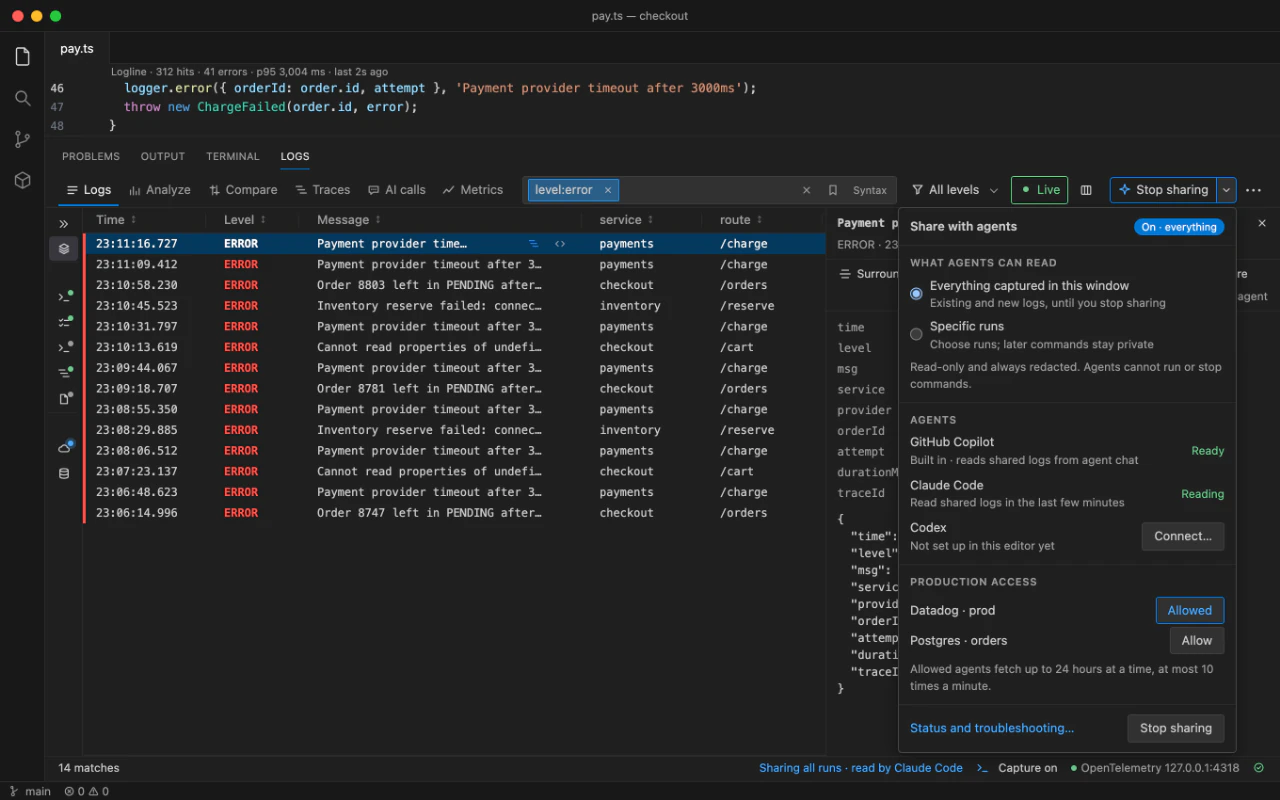
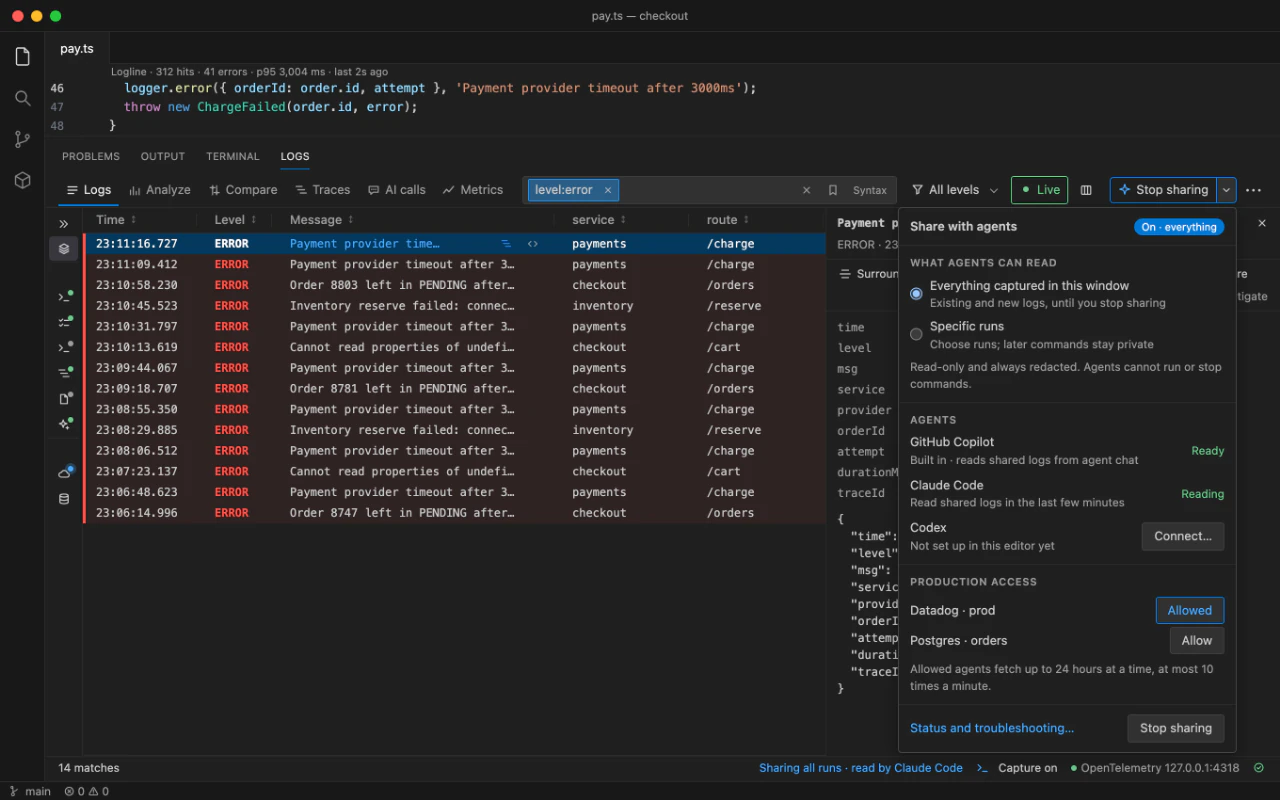
Bring the README, docs, and screenshots up to date for the release
- README: Copilot agent sessions, runtime errors in the editor, Insert Log,
  Investigate, failed CI tests marked in the editor, Claude Code usage.
- Regenerate the README images from the current panel; the fixtures now
  mark error events as the host does, so Investigate shows enabled, and
  include an agent session source.
- PRIVACY: what agent sessions, Claude Code usage, and GitHub Actions read
  or send, and the Investigate usage events.
- ARCHITECTURE: the GitHub Actions connector, agent session capture,
  runtime errors, Insert Log, and Investigate.
- Walkthrough and extension description mention CI and Investigate.

Changed region(s): [[0.1562, 0.25, 0.5312, 0.6562], [0.5312, 0.25, 0.5938, 0.6562], [0.0312, 0.5312, 0.0625, 0.5938]]

diff --git a/ARCHITECTURE.md b/ARCHITECTURE.md
@@ -42,6 +42,8 @@ Plain-text capture paths frame lines through `LinePipeline` (`capture/line-pipel
 
 `RemoteSource` (`capture/remote-source.ts`) fetches rows from saved connections into runs. A fetch is a run (`sourceKind: 'remote'`, source `conn:<id>`) of the newest rows in a time range that can match the search, ingested oldest first in chunks of 500 and never persisted; a tail reads rows at or after the newest time it has seen, skipping lines it already ingested at that time, and keeps polling after a failed read. A connector's `firstPage` callback hands over a small first page while the rest are read; it is shown at once, and the run is filled again oldest first when the whole result arrives, or emptied if the fetch fails. A newer search of a connection cancels one still running and drops its rows (`cancelFetches`). Each run reports the store's time, Logline's time, and when its first rows appeared. `core/remote-query.ts` turns a search into parameterized SQL for a mapped table: terms SQL can express narrow the select, an `OR` branch it cannot narrow drops the narrowing, and the rest are reported as local. Every fetched row is then checked against the whole search (less `changed:`) through the `accept` callback of `Ingestion.accept`, so SQL may fetch more rows than match, never fewer. Regular expression terms are recognized by their text and not compiled there. `SqlConnector` (`capture/connectors/sql.ts`) runs these through a `SqlDriver`. SQLite runs in a child process of the editor's runtime (`node:sqlite`, opened read-only), killed at the timeout, because a worker thread cannot be stopped while SQLite runs a query and would keep the editor from exiting; runtimes without `node:sqlite` use the `sqlite3` command, with parameters bound through its parameter table. Postgres uses pg, bundled with its licenses into `out/vendor/pg.js` and loaded on first use, with each query in a read-only transaction and a statement timeout. `DatadogConnector` (`capture/connectors/datadog.ts`) searches with the Logs Search API through `fetch`, in pages of up to 5,000 after a first page of 200, limited by `logline.datadogMaxRows` (`RemoteTarget.maxRowsSetting`), and counts the total only when more logs follow the first page. `core/datadog-query.ts` translates a search with Datadog's matching rather than as a superset: values match whole unless they have a `*`, free text is a word of the message, and a field without `@` is a tag or an attribute. The local filter stays a superset of that, since `*` is a wildcard in `core/query.ts` too and `getField` finds a missing field among an event's `tags`. A query typed in Datadog syntax, or from a Log Explorer link, is sent untranslated (`FetchRequest.native`) and not filtered again. Its `tailLagMs` is the most a tail reads back; `RemoteSource` shortens that to twice the lateness the last reads saw, at least 15 s, and goes back the whole lag every tenth read. Its `tailPollMs` follows the `x-ratelimit-*` headers of each search, and `services()` lists the services that logged in a range through the aggregate API. Keys are stored as JSON under the API's address, so a workspace that points a connection at another host never receives them; plain http is accepted only on loopback, which `src/test/fake-datadog.ts` uses in tests. `ConnectionManager` (`vscode/connections.ts`) reads `logline.connections`, keeps passwords in secret storage keyed by user, host, port, and database, and closes connectors when their settings change. It adds and edits connections through the Connection form, a tab of the Logs panel in three parts. `core/connection-form.ts` holds the draft, its checks, and the messages between form and host; both sides check a draft with the same `readDraft`, so the form says what is missing as the person types and the host never trusts it. `ConnectionSession` (`vscode/connection-session.ts`) owns the one open form: it numbers each form so answers meant for an earlier one are dropped, keeps the connector opened by the last good test to list tables and read five sample rows, and saves only a draft whose connection and secret match that test. A saved secret is offered to an edit only while the draft's secret key matches the saved connection's, so it never goes to another server or site. An edit replaces the connection in the settings it came from and keeps its id. The webview side is `webview/connection-tab.ts`, which shows the tab while a form is open and lists connections in its rail, and `webview/connection-form/form.ts`, which renders the form from text nodes only, since sample rows are database content.
 
+`GitHubActionsConnector` (`capture/connectors/github-actions.ts`) reads the failed jobs of the newest 10 failed runs of a branch, with a token from VS Code's GitHub sign-in (`vscode/github-auth.ts`) that Logline never stores. A connection's `endpoint` may only name a loopback address, for tests, since requests carry the github.com account's token. `core/ci-log.ts` turns a job's log into lines with their step and an event per failed test (`kind:test-failure`) from the output of common test runners; a finished job's log and an attempt's failed jobs are cached, as they never change.
+
 Connectors that hold metrics implement `queryMetrics` and `listMetrics`: Datadog through `/api/v1/query` and `/api/v1/metrics`, a database through a checked `SELECT`, its rows grouped into series by `core/metric-query.ts`, which also bounds what a chart receives to 20 series of 300 points. The Metrics tab's chart (`webview/inspection/metric-query.ts`) is inline SVG; a window dragged across it is sent back as `connectionFetch` with `fromMs` and `toMs`. `RemoteMetrics` (`capture/remote-metrics.ts`) polls watched queries every 15 seconds over the last ten minutes into `MetricStore` as gauges, which keeps only points newer than a series' last.
 
 Agents reach connections through `AgentLogAccess.production`, which the controller attaches: `fetchProduction` checks the share, the connection's agent permission (kept by `ConnectionManager` in `globalState` under the connection's identity, so workspace settings cannot grant it), a range of at most a day, and 10 fetches a minute per connection, then adds the fetched run to a share of selected runs and returns error groups, redacted. `compareWithProduction` builds a comparison without pinning it. The MCP server marks `logline_fetch_production` as reaching outside the editor (`openWorldHint`).
@@ -68,9 +70,13 @@ Full file exports keep a fixed array of matching event references, then redact/s
 
 `Configuration` normalizes settings before returning them, caches normalized values, and clears its cache on refresh. Numeric ranges and integer counts are checked at this boundary. Auto-start uses the same validated configuration. Server management preserves unrelated malformed entries while editing/deleting the selected array entry.
 
+`AgentSessionCapture` (`capture/agent-sessions.ts`) reads the transcripts Claude Code (`~/.claude/projects`), Codex (`~/.codex/sessions`), and Copilot (`~/.copilot/session-state` and the workspace's Copilot Chat storage) keep on this machine, with `capture/jsonl-tail.ts` reading only what was appended. `core/agent-session.ts` and `core/copilot-chat.ts` turn each line into prompt, tool-call, and reply events (`sourceKind: 'agent'`), one source per agent and one run per session. A session filed outside this folder's own files shows nothing until it names a working folder inside an open one, so another project's activity is never shown or shared. While `agentSessions.enabled` is off, it only reads the start of such files every few minutes to count the sessions the rail can offer.
+
+Code-facing features keep their logic in `core` and their editor wiring in `vscode`. `core/runtime-errors.ts` keys each captured error by its message and top app frames, and `vscode/runtime-errors.ts` resolves a frame to a file inside a workspace folder, or the one file whose path ends the same way, and marks its line. `core/log-insert.ts` plans a log line in the logging style the file already uses, escaping the label for each language's string literal, and `vscode/log-insert.ts` applies and removes the marked lines. `core/investigation.ts` writes the prompt Investigate hands an agent, with log text quoted and cut short as untrusted data, and watches the runs that follow; `vscode/investigate.ts` shares the error's source first, then opens Copilot's chat or starts Claude Code or Codex in a terminal with `promptCommand`, whose `shellQuote` quotes for POSIX shells, PowerShell, and Command Prompt.
+
 Task identities combine folder URI, task type, and exact name through a stable hash. Explicit IDs remain authoritative. Session records retain folder scope and task labels for dependency resolution; the latest matching run in the same scope determines readiness. This metadata is separate from the event payload.
 
-Prompts and indicators outside the panel each have a module of their own. `CaptureStatus` (`vscode/capture-status.ts`) reads the store's counts on a timer for the status bar item and the errors notification, never from the capture path. The AI usage item works the same way: `core/codex-usage.ts` holds the pure parsing, tally, status text, and hover; `capture/codex-usage-reader.ts` reads only the bytes appended to Codex's session files and lists their folders once a minute; and `vscode/ai-usage-status.ts` is the item, polling every 5 seconds off the capture path. Its pie glyphs come from `media/logline-icons.woff`, built by `scripts/build-icons.mjs` (`npm run build:icons`). `CaptureOffer` (`vscode/capture-offer.ts`) offers terminal capture when a dev server starts, `vscode/agent-onboarding.ts` detects the agent in the editor and offers **Set Up for My Agent**, and `vscode/rating-prompt.ts` and `vscode/update-check.ts` ask for a rating and look for an update; each keeps how it was answered in `Memento` state so it does not ask again. `vscode/about.ts` builds what **About Logline** shows and copies. `ViewNotifications` (`vscode/view-notifications.ts`) coalesces ingestion bursts into one `update` message per interval for every open view.
+Prompts and indicators outside the panel each have a module of their own. `CaptureStatus` (`vscode/capture-status.ts`) reads the store's counts on a timer for the status bar item and the errors notification, never from the capture path. The AI usage item works the same way: `core/codex-usage.ts` and `core/claude-usage.ts` hold the pure parsing, tally, status text, and hover; `capture/codex-usage-reader.ts` and `capture/claude-usage-reader.ts` read only the bytes appended to the agents' session files and list their folders once a minute; and `vscode/ai-usage-status.ts` is the item, polling every 5 seconds off the capture path. Its pie glyphs come from `media/logline-icons.woff`, built by `scripts/build-icons.mjs` (`npm run build:icons`). `CaptureOffer` (`vscode/capture-offer.ts`) offers terminal capture when a dev server starts, `vscode/agent-onboarding.ts` detects the agent in the editor and offers **Set Up for My Agent**, and `vscode/rating-prompt.ts` and `vscode/update-check.ts` ask for a rating and look for an update; each keeps how it was answered in `Memento` state so it does not ask again. `vscode/about.ts` builds what **About Logline** shows and copies. `ViewNotifications` (`vscode/view-notifications.ts`) coalesces ingestion bursts into one `update` message per interval for every open view.
 
 ## Viewer and protocol
 

diff --git a/PRIVACY.md b/PRIVACY.md
@@ -15,11 +15,11 @@ Every event carries:
 
 Events cover:
 
-- **Use**: the day you first use Logline each day, the commands you run, the kinds of capture you start, when the Logs panel opens, the views you open, which panel actions you use by name (such as opening an event, exporting, or saving a search, never what they acted on), how wide the panel is in a range, which option you chose in the welcome, whether you finished or skipped the panel tour, whether you opened Logline from the status bar, a file's menu, a terminal's menu, or the empty panel, and the first time you reach a few steps such as your first search or first share.
+- **Use**: the day you first use Logline each day, the commands you run, the kinds of capture you start, when the Logs panel opens, the views you open, which panel actions you use by name (such as opening an event, exporting, or saving a search, never what they acted on), how wide the panel is in a range, which option you chose in the welcome, whether you finished or skipped the panel tour, whether you opened Logline from the status bar, a file's menu, a terminal's menu, the empty panel, the Sources rail's offer of agent sessions, or the **Add logs** menu, and the first time you reach a few steps such as your first search or first share.
 - **Searches**: which operators a search used (fields, `-`, regex, time ranges, comparisons, `*`, `changed:`, `OR`), which of Logline's own fields it filtered on, such as `level` or `service`, and how many events it found, in ranges. Never what you searched for, and never your own field names.
 - **Connections**: the type (Datadog, Postgres, and so on), how it signs in, and whether a search, tail, query, or test worked, with its time and row count in ranges.
 - **Log doctor**: which kinds of problem it found, such as a secret or a noisy statement, once a session; the actions you take on them; and a thumbs up or down you give a kind of finding. Never the statement, file, or value.
-- **Agents**: when you share logs, how (all, chosen runs, one event, or from the window's start after the one-step setup) and how much in ranges; how connecting an agent went; whether the one-step setup was offered, accepted, finished, or stopped at sharing or connecting, and for which kind of agent; whether you stopped sharing or the window closed; whether an agent that started Logline's server found the window, or why not (it runs in a folder no window has open, or its editor did not say the folder); which kind of agent called (Claude Code, Codex, Cursor, Copilot, or other); which tool it called, whether it worked, how long it took, and how many values were redacted from its result, in a range.
+- **Agents**: when you share logs, how (all, chosen runs, one event, or from the window's start after the one-step setup) and how much in ranges; how connecting an agent went; whether the one-step setup was offered, accepted, finished, or stopped at sharing or connecting, and for which kind of agent; whether you stopped sharing or the window closed; whether an agent that started Logline's server found the window, or why not (it runs in a folder no window has open, or its editor did not say the folder); which kind of agent called (Claude Code, Codex, Cursor, Copilot, or other); which tool it called, whether it worked, how long it took, and how many values were redacted from its result, in a range; and, for **Investigate**, which kind of agent an error was handed to (Copilot, Claude Code, Codex, or a copied prompt) and whether the error then stopped or happened again. Never the error or the prompt.
 - **Settings**: which Logline setting changed, and its new value only when it is on or off, a number in a range, or one of the setting's own choices.
 - **Was it helpful**: a few minutes after **Ask Copilot** opens an investigation, Logline may ask whether it helped, at most once a week and three times in all, and sends Yes or No. Never the chat.
 - **Performance and errors**: how long activation, the first logs in the panel, searches, and imports took, and how many events an import brought, in ranges; and failures by area and a code Logline names, never their message.
@@ -29,7 +29,15 @@ Events cover:
 
 ## AI usage in the status bar
 
-When you turn on **Show Codex Usage**, Logline reads the session files Codex keeps under `~/.codex` to show its plan limits and today's tokens in the status bar. This is read on your machine only. Nothing read is sent, and no token or limit figure is added to usage data.
+When you turn on **Show Codex Usage**, Logline reads the session files Codex keeps under `~/.codex` to show its plan limits and today's tokens in the status bar. **Show Claude Code Usage** reads the session files Claude Code keeps under `~/.claude` for today's tokens. This is read on your machine only. Nothing read is sent, and no token or limit figure is added to usage data.
+
+## Agent sessions
+
+When you turn on `logline.agentSessions.enabled`, Logline reads the transcripts Claude Code, Codex, and GitHub Copilot keep on your machine (under `~/.claude`, `~/.codex`, `~/.copilot`, and VS Code's storage for Copilot Chat) for sessions that worked in an open folder, and shows them as logs. While it is off, Logline reads only the start of a session file, to find which folder it worked in and offer to show it. What is read stays on your machine like any other log: it is shared with an agent only when you share, redacted, and none of it is added to usage data.
+
+## GitHub Actions connections
+
+A GitHub Actions connection signs in with the GitHub account VS Code is signed in to. Logline asks VS Code for the token when a search runs, sends it only to GitHub's API, and never stores it. The repository and branch you enter are saved in the workspace settings, and are not added to usage data.
 
 ## What is never sent
 

diff --git a/README.md b/README.md
@@ -24,8 +24,10 @@ Run your app the way you already do: in a terminal, with F5, as a task, in Docke
 - **The browser too**: open your app from Logline, and its console, uncaught errors, and network requests land in the same timeline as the server's logs.
 - **Search like you think**: `level:error service:api`, `status:5xx`, `durationMs:>200`, `last:15m`, or `changed:true` for logs from code you changed since the last commit.
 - **Read any format**: JSON, logfmt, plain text, Pino, Winston, Log4j2, and ECS, with stack traces kept together.
-- **Agent sessions too**: what Claude Code and Codex did in your workspace, each prompt, tool call, and reply, shows beside your app's logs.
+- **Agent sessions too**: what Claude Code, Codex, and GitHub Copilot did in your workspace, each prompt, tool call, and reply, shows beside your app's logs, so a failed tool call sits next to the error it caused.
 - **Back to the code**: every log statement shows live hit counts, errors, and p95 durations above it, and **Break here** stops the debugger the next time it logs.
+- **Errors on the line that threw them**: the line of your code that raised a captured error is marked with the error, how often it happened, and how long ago, inline and in Problems, with a quick fix to see its logs or break there.
+- **Insert Log** (Ctrl+Alt+L, Cmd+Alt+L on macOS) adds a log line for the expression at the cursor in the style the file already logs with, and its CodeLens shows the latest value it logged. One command removes every inserted line.
 
 ## Find the problem
 
@@ -40,7 +42,7 @@ Run your app the way you already do: in a terminal, with F5, as a task, in Docke
 
 ![Compare: production errors from Datadog lined up with local runs, marked Reproduced, Fixed locally, Not seen locally, or New, with both sides of one error shown](media/readme/compare.webp)
 
-- **Connections** search and tail Datadog, CloudWatch, Grafana Loki, Elasticsearch and OpenSearch, Google Cloud Logging, the failed jobs of a GitHub Actions repository (each failed test is an event of its own), Postgres, MySQL and Aurora (with AWS IAM sign-in), MongoDB, and SQLite logs, read-only, beside your local runs. Add one in a form that tests it and previews its log table first; **Edit** changes it later.
+- **Connections** search and tail Datadog, CloudWatch, Grafana Loki, Elasticsearch and OpenSearch, Google Cloud Logging, the failed jobs of a GitHub Actions repository (each failed test is an event of its own, marked on its line in the editor), Postgres, MySQL and Aurora (with AWS IAM sign-in), MongoDB, and SQLite logs, read-only, beside your local runs. Add one in a form that tests it and previews its log table first; **Edit** changes it later.
 - **Compare** lines production errors up with your newest local runs: is it reproduced, and is your fix working? Errors from code you changed are tagged.
 - **Metrics** chart a connection's queries; drag across a spike to fetch the logs from that window.
 
@@ -49,6 +51,8 @@ Run your app the way you already do: in a terminal, with F5, as a task, in Docke
 ![The Share panel: everything captured is shared, Copilot is ready, and Claude Code is reading](media/readme/share.webp)
 
 **Logline: Set Up for My Agent** turns on capture, shares, and connects the agent in your editor in one step. **Share with agent** gives Copilot, Claude Code, Codex, or the agent in Cursor, Windsurf, or Kiro read-only access to what you choose: everything, or specific runs. Logs are always redacted, agents can't run anything, and **Stop sharing** cuts them off at once. Allow an agent to fetch from a connection, and it can pull production logs and compare them with your run, then verify its own fix.
+
+**Investigate** hands one error to Copilot, Claude Code, or Codex, from an error group in Analyze, an open error, or the error's mark in the editor. The agent gets the event to start from and the search for its other occurrences, and is asked to find the cause, fix it, and confirm with fresh logs. Logline then watches the error's source and says **Fixed locally** or **Still failing**.
 
 ## Get started
 
@@ -66,7 +70,7 @@ New to it? Logline offers a one-minute tour the first time, which **More actions
 | **Search tools** | Field and value autocomplete, include or exclude a value from any cell, saved searches, and surrounding logs from the same run. |
 | **Export** | JSONL, JSON, CSV, or Markdown for AI tools, redacted by default. |
 | **Retention** | Keeps the newest logs within a memory budget you set, optionally written to disk. |
-| **Outside the panel** | A status bar item counts captured logs and errors, the Logline icon on the right opens the Logs panel and can show how much of Codex's plan limit is used, a notification says when a run logs errors while the panel is hidden, and **Open in Logline** shows a `.log` or `.jsonl` file. |
+| **Outside the panel** | A status bar item counts captured logs and errors, the Logline icon on the right opens the Logs panel and can show how much of Codex's plan limit is used and Claude Code's tokens of today, a notification says when a run logs errors while the panel is hidden, and **Open in Logline** shows a `.log` or `.jsonl` file. |
 | **Troubleshooting** | The check mark in the Logs panel's status bar opens a Status panel for capture, the OpenTelemetry receiver, agents, log issues, and memory, and **Logline: Show Status** shows what is on, off, or broken, with the fix. |
 | **Feedback** | **More actions → Send feedback…** suggests a feature or votes on what to build next. |
 

diff --git a/docs/usage.md b/docs/usage.md
@@ -129,7 +129,7 @@ Afterwards Logline watches the error's source. It says **Still failing**, with *
 
 Claude Code, Codex, and GitHub Copilot keep a transcript of each session on your machine. With `logline.agentSessions.enabled` on, Logline reads them and shows what the agents did beside your app's logs. It is off by default: **Logline: Show Agent Sessions**, or the **Agent sessions** link in the AI usage hover, asks first, turns it on, and opens the Logs panel. While it is off, an agent that worked in an open folder in the last day is offered in the **Sources** rail under **Local**, as a quiet row such as *Claude Code · 3 sessions in this folder*: **Show** asks first in the same way, and **×** (or Delete) stops offering that agent in this folder. While agent sessions are off, **Add logs** (**+**) in the rail also has **Show agent sessions…**, so they stay one click away after a dismissal. Removing an agent's source (the trash icon, or Delete) stops reading its sessions, including ones it starts later, and offers it again in the same row, even in a folder where it was dismissed; **Show** there, **Show agent sessions…** in **Add logs**, or **Logline: Show Agent Sessions** brings its sessions back without asking again. Turning the setting off and on also forgets which agents were removed. To find them, Logline lists the agents' session folders every few minutes and reads only the start of a session file that does not show which folder it worked in; nothing else is read until you choose **Show**.
 
-Logline reads Claude Code's transcripts under `~/.claude/projects`, Codex's under `~/.codex/sessions` (or `CODEX_HOME`), and Copilot's in two places: Copilot Chat sessions in VS Code, which VS Code keeps with the workspace's own storage, and Copilot CLI sessions under `~/.copilot/session-state`, including the ones VS Code starts for it. It reads sessions that worked in an open workspace folder or a subfolder of it and were written to in the last day, the 20 newest for each agent; a session begun later takes the place of the one that ended longest ago, which goes on from where it was read if it resumes. Each agent is a source in the rail, **Claude Code**, **Codex**, or **Copilot** (Chat and CLI sessions together), with the agent's icon, and each session is a run named by its title or first prompt. A session whose file stops growing for 10 minutes is shown as ended. A Copilot Chat session's files are named relative to the workspace folder unless the workspace has several folders.
+Logline reads Claude Code's transcripts under `~/.claude/projects`, Codex's under `~/.codex/sessions` (or `CODEX_HOME`), and Copilot's in two places: Copilot Chat sessions in VS Code, which VS Code keeps with the workspace's own storage, and Copilot CLI sessions under `~/.copilot/session-state`, including the ones VS Code starts for it. It reads sessions that worked in an open workspace folder or a subfolder of it and were written to in the last day (a session that does not say which folder it worked in shows nothing), the 20 newest for each agent; a session begun later takes the place of the one that ended longest ago, which goes on from where it was read if it resumes. Each agent is a source in the rail, **Claude Code**, **Codex**, or **Copilot** (Chat and CLI sessions together), with the agent's icon, and each session is a run named by its title or first prompt. A session whose file stops growing for 10 minutes is shown as ended. A Copilot Chat session's files are named relative to the workspace folder unless the workspace has several folders.
 
 Each prompt, tool call, and reply is a log line with the fields `kind:agent`, `agent` (`claude-code`, `codex`, or `copilot`), `action` (`prompt`, `tool`, or `reply`), `session`, and `model`. A tool call also has `tool`, `command`, `file`, `exitCode`, `durationMs`, and `output`, the end of what a failed call printed. A tool call is reported when its result arrives, at the time it was called, with level `error` when it failed or exited with a non-zero code. A Copilot Chat tool call you denied has level `warn` and ends in `denied`; one that ran in the terminal has the command as you ran it, after any edit, and its exit code. A Copilot Chat request that failed is a reply with level `error` and Copilot's message. Try `kind:agent level:error`, `agent:claude-code tool:Bash exitCode:>0`, or `kind:agent durationMs:>10000`.
 

diff --git a/media/walkthrough/connect.md b/media/walkthrough/connect.md
@@ -1,6 +1,6 @@
 # Add a connection
 
-Search and tail production logs in Datadog, CloudWatch, Grafana Loki, Elasticsearch or OpenSearch, or Google Cloud Logging, or the log table of a Postgres or MySQL server (Aurora and RDS too), a SQLite file, or a MongoDB collection, next to the runs you capture.
+Search and tail production logs in Datadog, CloudWatch, Grafana Loki, Elasticsearch or OpenSearch, or Google Cloud Logging, the failed CI jobs of a GitHub repository, or the log table of a Postgres or MySQL server (Aurora and RDS too), a SQLite file, or a MongoDB collection, next to the runs you capture.
 
 Your search becomes the store's own query, shown before it runs, and every query is read-only. Passwords and keys stay in VS Code's secret storage, and Aurora and RDS can sign in with AWS IAM instead.
 

diff --git a/media/walkthrough/share.md b/media/walkthrough/share.md
@@ -5,3 +5,5 @@
 **Set Up for My Agent** does it in one step: it turns on terminal capture, shares, and connects the agent found in your editor.
 
 The arrow beside the button chooses what they read (everything, or specific runs) and connects Claude Code or Codex.
+
+**Investigate**, on an error in the Logs panel or its mark in the editor, hands that one error to Copilot, Claude Code, or Codex to find the cause and fix it, and Logline then tells you whether it is fixed.
